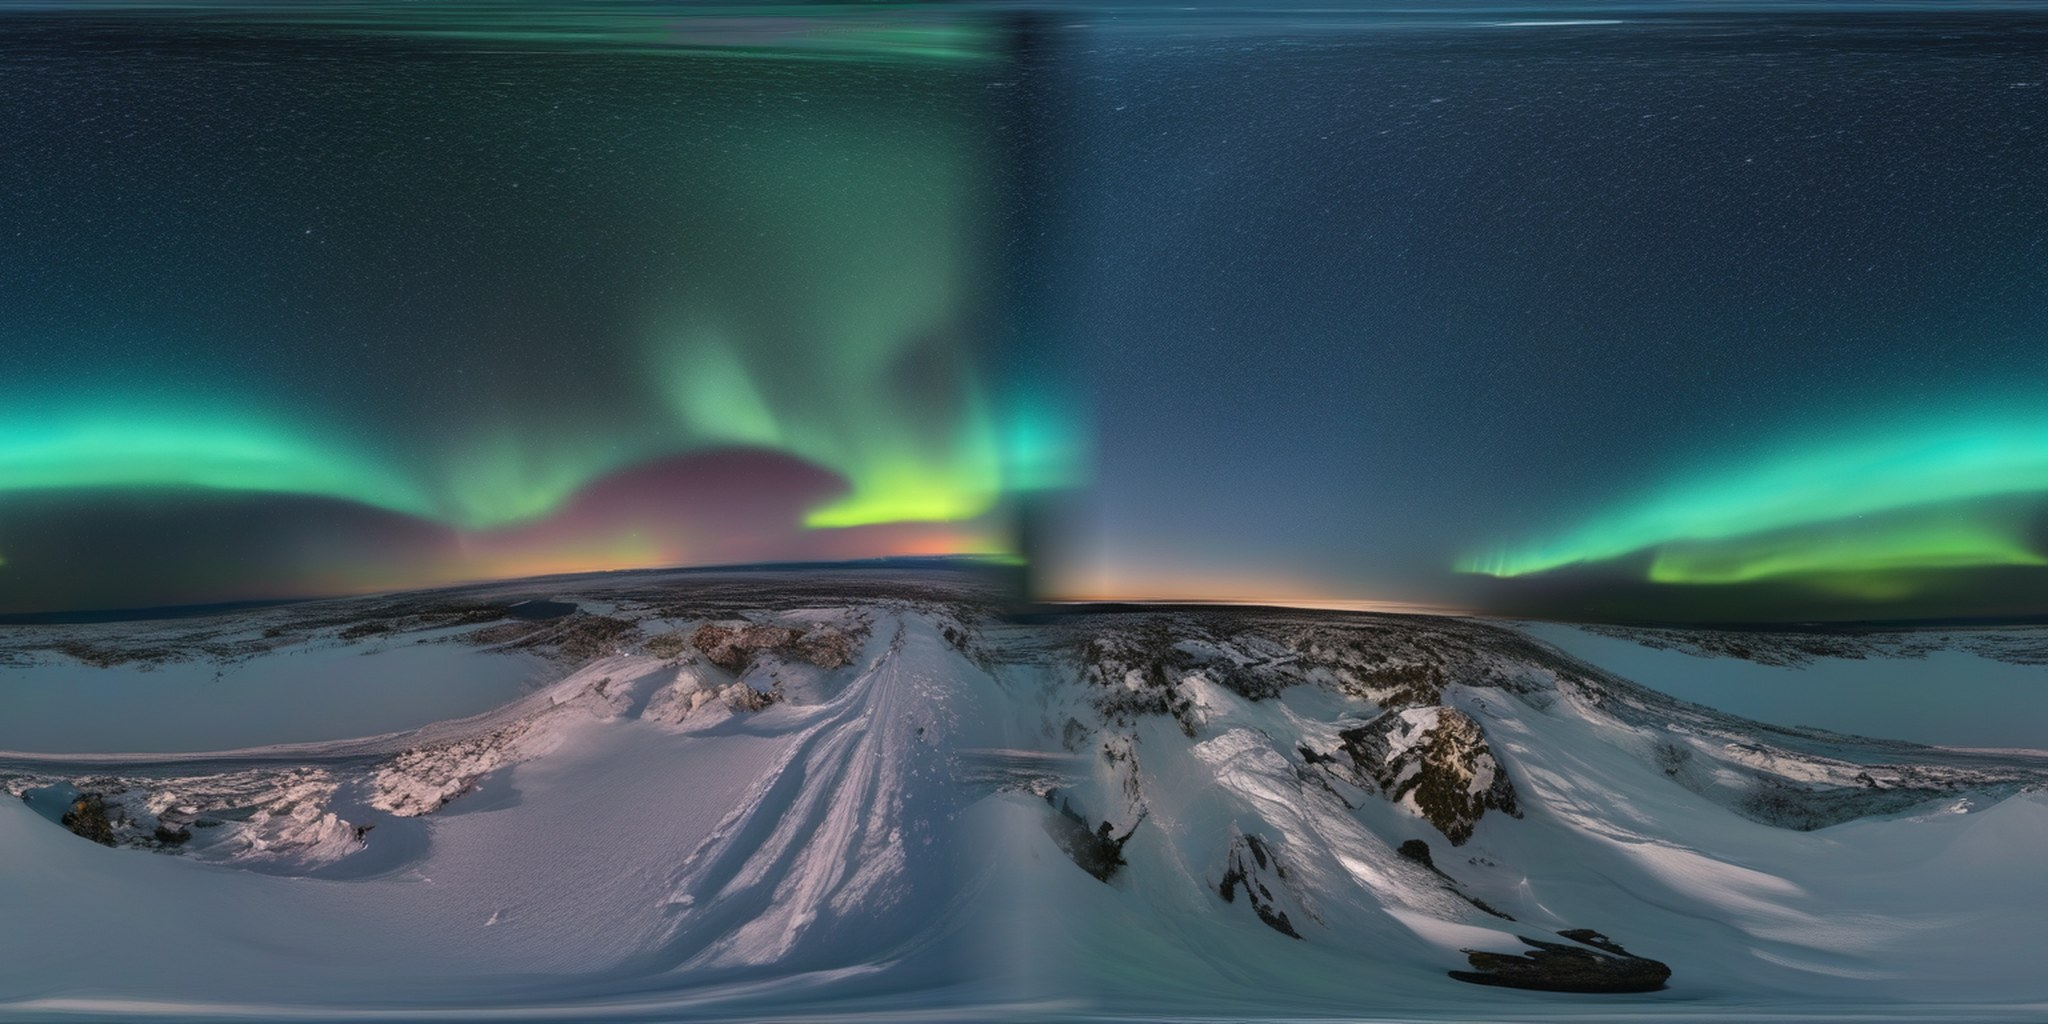
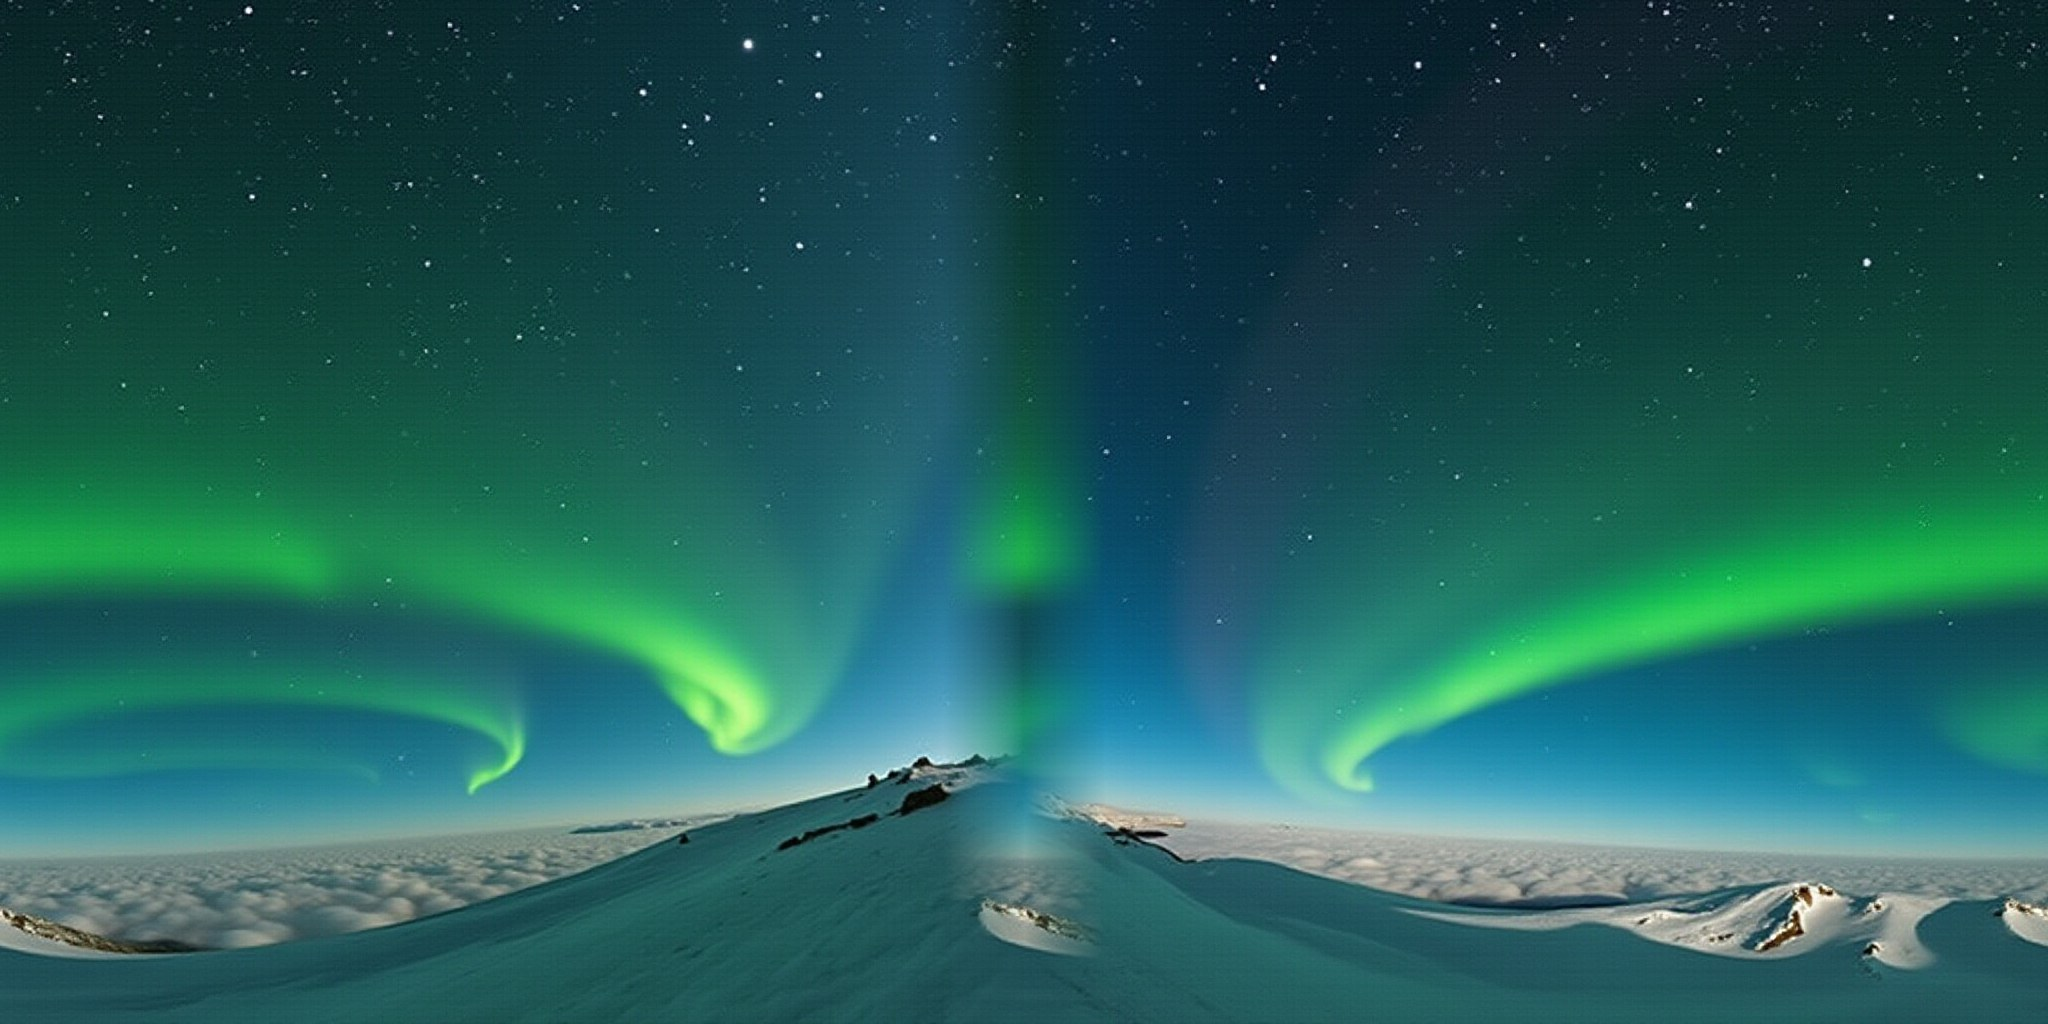
FLUX asset set (skies, basalt/grey/moss stones, ground) with the SDXL tan stone kept; panorama seam shifted behind the default camera
Claude-Session: https://claude.ai/code/session_01XPkKJFHdWfc4GW3tAYtjwE

diff --git a/index.html b/index.html
@@ -1132,7 +1132,7 @@ async function loadAssets() {
     }
     const wrap = (t, rep = 1) => { t.wrapS = t.wrapT = THREE.RepeatWrapping; t.repeat.set(rep, rep); t.anisotropy = 8; return t; };
     if (m.skies?.some(Boolean)) { // one panorama per altitude band; the dome shader blends neighbours
-      await Promise.all(m.skies.map(async (u, i) => { if (!u) return; const t = await tl.loadAsync(u); t.colorSpace = THREE.SRGBColorSpace; t.wrapS = THREE.RepeatWrapping; skyTex[i] = t; }));
+      await Promise.all(m.skies.map(async (u, i) => { if (!u) return; const t = await tl.loadAsync(u); t.colorSpace = THREE.SRGBColorSpace; t.wrapS = THREE.RepeatWrapping; t.offset.x = -0.25; skyTex[i] = t; })); // the panorama's blended seam sits at u=0.5; shift it behind the default camera (+z)
       for (let i = 0; i < 6; i++) skyTex[i] ??= skyTex[i - 1] ?? skyTex.find(Boolean);
       if (!m.skybox && skyTex[0]) { const e = skyTex[0].clone(); e.mapping = THREE.EquirectangularReflectionMapping; e.needsUpdate = true; scene.environment = pmrem.fromEquirectangular(e).texture; }
       applyEnv(altShown);
